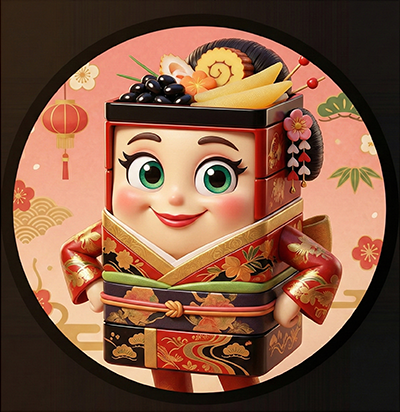
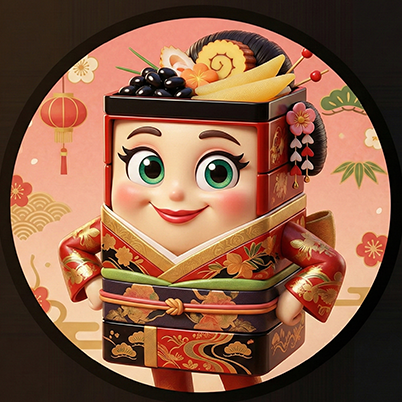
docs(D15): お節娘の紹介を追記

diff --git a/D15.md b/D15.md
@@ -216,7 +216,11 @@ document.getElementById('cancel-btn').addEventListener('click', () => {
 
 ### 梅干し・おにぎり
 
-<img src="./images/Gemini_Generated_Image_b66uetb66uetb66u.png" width="300" />
+<img src="./images/Gemini_Generated_Image_b66uetb66uetb66u.png" width="300" /><br>
+
+### <ruby>看板<rt>かんばん</rt></ruby><ruby>お節娘<rt>おせちむすめ</rt></ruby>  　　　　　<ruby>梅松吹雪<rt>うめまつふぶき</rt></ruby><ruby>伊達<rt>だて</rt></ruby>たまご
+<img src="./images/Gemini_Generated_Image_6jovjd6jovjd6jov.png" width="200" />
+<img src="./images/Gemini_Generated_Image_q1z66eq1z66eq1z6.png" width="200" />
 
 -----
 
